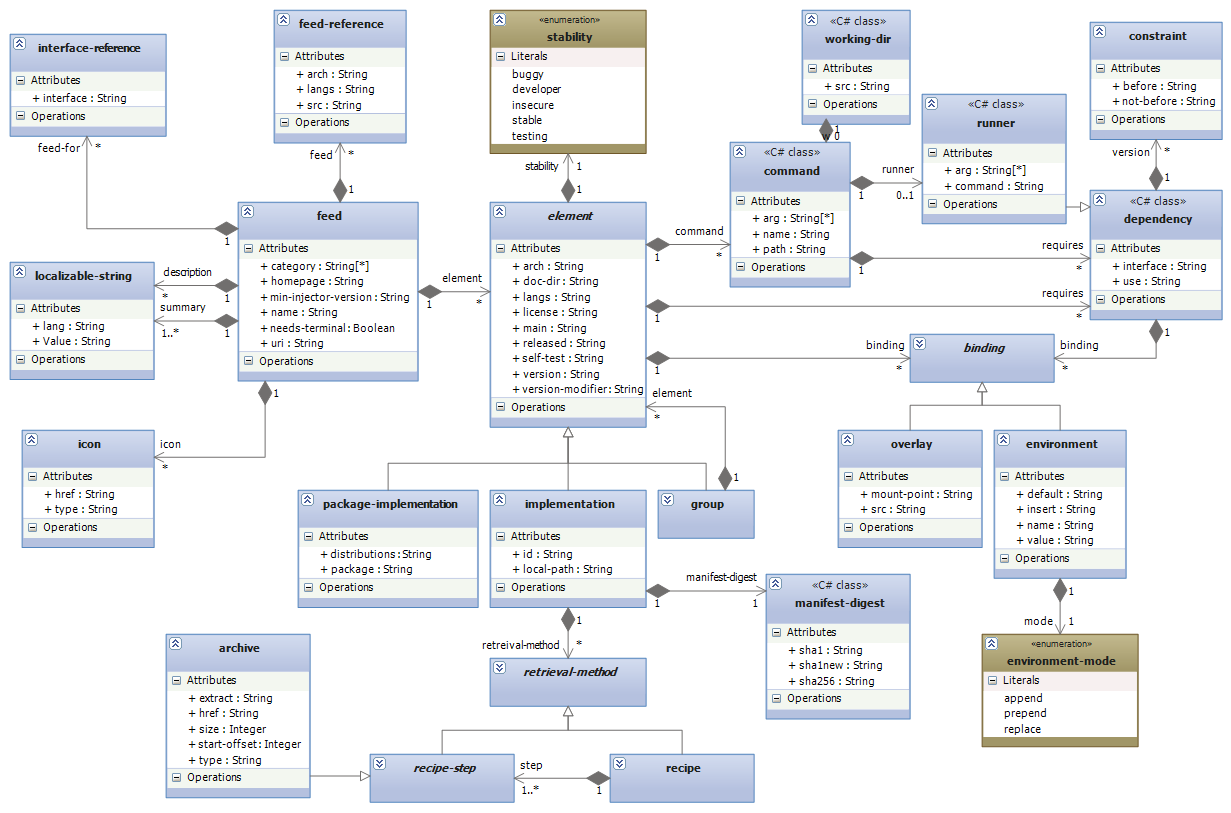
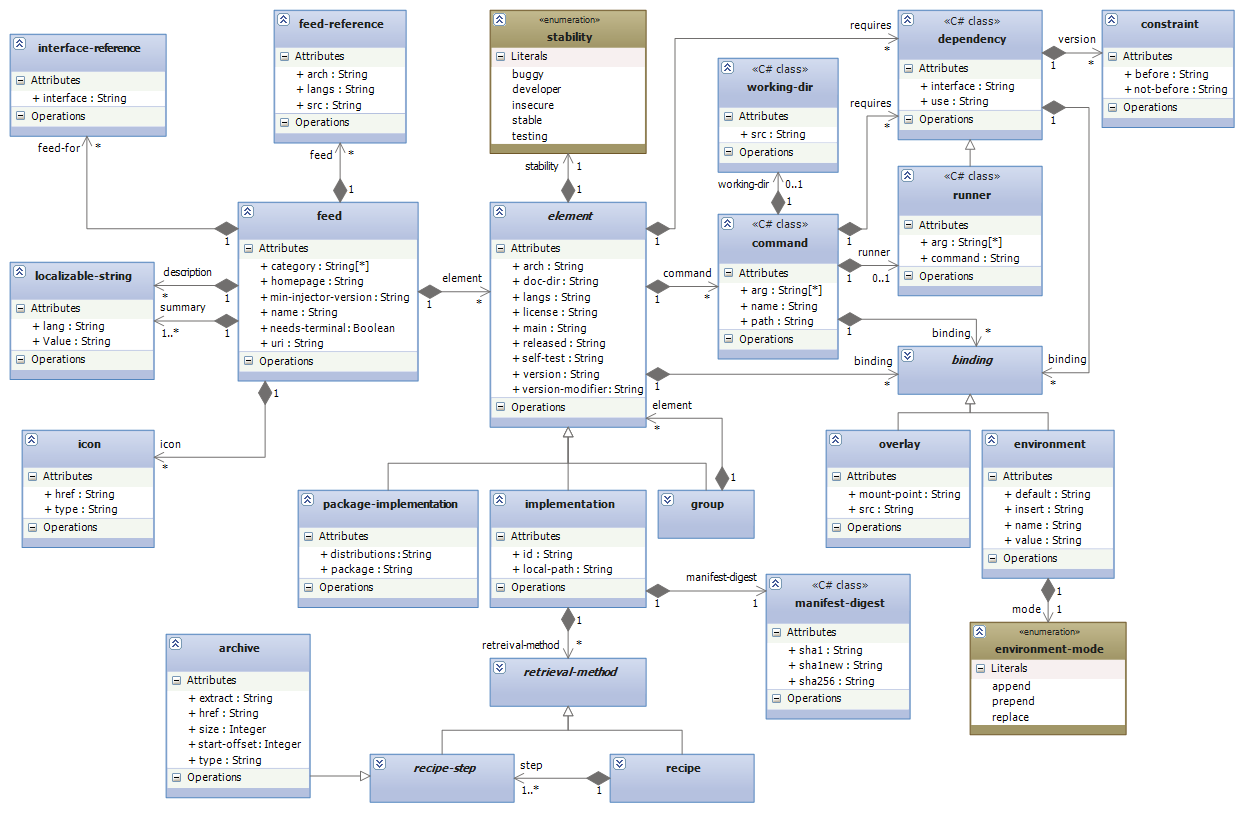
Added suport for bindings in <command>s

diff --git a/src/Model/Command.cs b/src/Model/Command.cs
@@ -29,7 +29,7 @@ namespace ZeroInstall.Model
     [SuppressMessage("Microsoft.Design", "CA1001:TypesThatOwnDisposableFieldsShouldBeDisposable", Justification = "C5 collections don't need to be disposed.")]
     [Serializable]
     [XmlType("command", Namespace = Feed.XmlNamespace)]
-    public sealed class Command : XmlUnknown, IArgsContainer, IDependencyContainer, ICloneable, IEquatable<Command>
+    public sealed class Command : XmlUnknown, IArgsContainer, IBindingContainer, IDependencyContainer, ICloneable, IEquatable<Command>
     {
         #region Constants
         /// <summary>
@@ -72,6 +72,16 @@ namespace ZeroInstall.Model
         [XmlElement("arg")]
         // Note: Can not use ICollection<T> interface because of XML Serialization
         public C5.ArrayList<string> Arguments { get { return _arguments; } }
+        
+        // Preserve order
+        private readonly C5.ArrayList<Binding> _bindings = new C5.ArrayList<Binding>();
+        /// <summary>
+        /// A list of <see cref="Binding"/>s for <see cref="Implementation"/>s to locate <see cref="Dependency"/>s.
+        /// </summary>
+        [Description("A list of bindings for implementations to locate dependencies.")]
+        [XmlElement(typeof(EnvironmentBinding)), XmlElement(typeof(OverlayBinding))]
+        // Note: Can not use ICollection<T> interface because of XML Serialization
+        public C5.ArrayList<Binding> Bindings { get { return _bindings; } }
 
         /// <summary>
         /// Switches the working directory of the process on startup to a location within the <see cref="Model.Implementation"/>.
@@ -120,6 +130,7 @@ namespace ZeroInstall.Model
         {
             var newCommand = new Command {Name = Name, Path = Path};
             foreach (var argument in Arguments) newCommand.Arguments.Add(argument);
+            foreach (var binding in Bindings) newCommand.Bindings.Add(binding.CloneBinding());
             if (WorkingDir != null) newCommand.WorkingDir = WorkingDir.CloneWorkingDir();
             foreach (var dependency in Dependencies) newCommand.Dependencies.Add(dependency.CloneDependency());
             if (Runner != null) newCommand.Runner = Runner.CloneRunner();
@@ -146,6 +157,7 @@ namespace ZeroInstall.Model
             if (Name != other.Name) return false;
             if (Path != other.Path) return false;
             if (!Arguments.SequencedEquals(other.Arguments)) return false;
+            if (!Bindings.SequencedEquals(other.Bindings)) return false;
             if (!Equals(WorkingDir, other.WorkingDir)) return false;
             if (!Dependencies.SequencedEquals(other.Dependencies)) return false;
             if (!Equals(Runner, other.Runner)) return false;
@@ -167,6 +179,9 @@ namespace ZeroInstall.Model
             {
                 int result = (Name ?? "").GetHashCode();
                 result = (result * 397) ^ (Path ?? "").GetHashCode();
+                result = (result * 397) ^ Arguments.GetSequencedHashCode();
+                result = (result * 397) ^ Bindings.GetSequencedHashCode();
+                if (WorkingDir != null) result = (result * 397) ^ WorkingDir.GetHashCode();
                 result = (result * 397) ^ Dependencies.GetSequencedHashCode();
                 if (Runner != null) result = (result * 397) ^ Runner.GetHashCode();
                 return result;

diff --git a/src/Test.Backend/Injector/ExecutorTest.cs b/src/Test.Backend/Injector/ExecutorTest.cs
@@ -82,6 +82,7 @@ namespace ZeroInstall.Injector
             _storeMock.ExpectAndReturn("GetPath", Test1Path, selections.Implementations[0].ManifestDigest); // Self-binding for first implementation
             _storeMock.ExpectAndReturn("GetPath", Test2Path, selections.Implementations[1].ManifestDigest); // Binding for dependency from first to second implementation
             _storeMock.ExpectAndReturn("GetPath", Test2Path, selections.Implementations[1].ManifestDigest); // Self-binding for second implementation
+            _storeMock.ExpectAndReturn("GetPath", Test1Path, selections.Implementations[0].ManifestDigest); // Self-binding for first command
             _storeMock.ExpectAndReturn("GetPath", Test1Path, selections.Implementations[0].ManifestDigest); // Binding for command dependency from second to first implementation
             _storeMock.ExpectAndReturn("GetPath", Test2Path, selections.Implementations[1].ManifestDigest); // Self-binding for second/outer/runner command
             _storeMock.ExpectAndReturn("GetPath", Test1Path, selections.Implementations[0].ManifestDigest); // Working dir for first/inner command
@@ -94,6 +95,7 @@ namespace ZeroInstall.Injector
             Assert.AreEqual(Test2Path + Path.PathSeparator + "default", startInfo.EnvironmentVariables["TEST2_PATH_SELF"], "Should prepend implementation path");
             Assert.AreEqual("test2", startInfo.EnvironmentVariables["TEST2_VALUE"], "Should directly set value");
             Assert.AreEqual("default" + Path.PathSeparator + Path.Combine(Test2Path, "sub"), startInfo.EnvironmentVariables["TEST2_PATH_SUB_DEP"], "Should append implementation sub-path");
+            Assert.AreEqual(Test1Path, startInfo.EnvironmentVariables["TEST1_PATH_COMMAND"], "Should set implementation path");
             Assert.AreEqual(Test1Path, startInfo.EnvironmentVariables["TEST1_PATH_COMMAND_DEP"], "Should set implementation path");
             Assert.AreEqual(Test2Path, startInfo.EnvironmentVariables["TEST2_PATH_RUNNER_SELF"], "Should set implementation path");
             Assert.AreEqual(Path.Combine(Test1Path, "bin"), startInfo.WorkingDirectory, "Should set implementation path");
@@ -205,6 +207,7 @@ namespace ZeroInstall.Injector
             _storeMock.ExpectAndReturn("GetPath", Test1Path, selections.Implementations[0].ManifestDigest); // Self-binding for first implementation
             _storeMock.ExpectAndReturn("GetPath", Test2Path, selections.Implementations[1].ManifestDigest); // Binding for dependency from first to second implementation
             _storeMock.ExpectAndReturn("GetPath", Test2Path, selections.Implementations[1].ManifestDigest); // Self-binding for second implementation
+            _storeMock.ExpectAndReturn("GetPath", Test1Path, selections.Implementations[0].ManifestDigest); // Self-binding for first command
             _storeMock.ExpectAndReturn("GetPath", Test1Path, selections.Implementations[0].ManifestDigest); // Binding for command dependency from second to first implementation
             _storeMock.ExpectAndReturn("GetPath", Test2Path, selections.Implementations[1].ManifestDigest); // Self-binding for second/outer/runner command
             _storeMock.ExpectAndReturn("GetPath", Test1Path, selections.Implementations[0].ManifestDigest); // Working dir for first/inner command

diff --git a/src/Test.Backend/Model/CommandTest.cs b/src/Test.Backend/Model/CommandTest.cs
@@ -37,12 +37,13 @@ namespace ZeroInstall.Model
                 Path = "dir 1/executable1", Arguments = {"--executable1"},
                 Dependencies = { new Dependency
                 {
-                    Interface = "http://0install.de/feeds/test/test1.xml", Bindings = { new EnvironmentBinding {Name = "TEST1_PATH_COMMAND_DEP"} }
+                    Interface = "http://0install.de/feeds/test/test1.xml", Bindings = {new EnvironmentBinding {Name = "TEST1_PATH_COMMAND_DEP"}}
                 }},
                 Runner = new Runner
                 {
-                    Interface = "http://0install.de/feeds/test/test2.xml", Arguments = {"runner argument"}, Bindings = { new EnvironmentBinding {Name = "TEST2_PATH_RUNNER_SELF"} }
+                    Interface = "http://0install.de/feeds/test/test2.xml", Arguments = {"runner argument"}, Bindings = {new EnvironmentBinding {Name = "TEST2_PATH_RUNNER_SELF"}}
                 },
+                Bindings = {new EnvironmentBinding {Name = "TEST1_PATH_COMMAND" }},
                 WorkingDir = new WorkingDir {Source = "bin"}
             };
         }
@@ -73,6 +74,23 @@ namespace ZeroInstall.Model
             Assert.AreEqual(command1, command2, "Cloned objects should be equal.");
             Assert.AreEqual(command1.GetHashCode(), command2.GetHashCode(), "Cloned objects' hashes should be equal.");
             Assert.IsFalse(ReferenceEquals(command1, command2), "Cloning should not return the same reference.");
+        }
+
+        /// <summary>
+        /// Ensures that the class can be correctly compared.
+        /// </summary>
+        [Test]
+        public void TestEquals()
+        {
+            var command1 = CreateTestCommand1();
+            var command2 = command1.CloneCommand();
+            command2.Bindings.Add(new EnvironmentBinding());
+
+            // Ensure data stayed the same
+            Assert.AreEqual(command1, command1, "Equals() should be reflexive.");
+            Assert.AreEqual(command1.GetHashCode(), command1.GetHashCode(), "GetHashCode() should be reflexive.");
+            Assert.AreNotEqual(command1, command2);
+            Assert.AreNotEqual(command1.GetHashCode(), command2.GetHashCode());
         }
     }
 }

diff --git a/src/Injector/Executor.cs b/src/Injector/Executor.cs
@@ -205,6 +205,9 @@ namespace ZeroInstall.Injector
 
             foreach (var command in _selections.Commands)
             {
+                // Apply bindings commands use to find themselves
+                ApplyBindings(startInfo, _selections.GetImplementation(currentRunnerInterface), command);
+
                 // Apply bindings commands use to find their dependencies
                 foreach (var dependency in command.Dependencies)
                     ApplyBindings(startInfo, _selections.GetImplementation(dependency.Interface), dependency);
